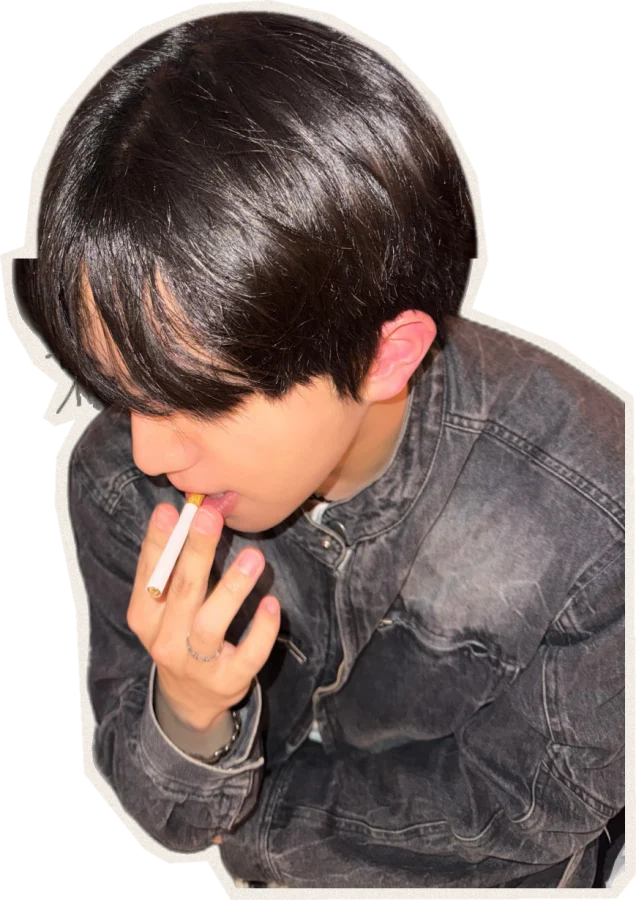
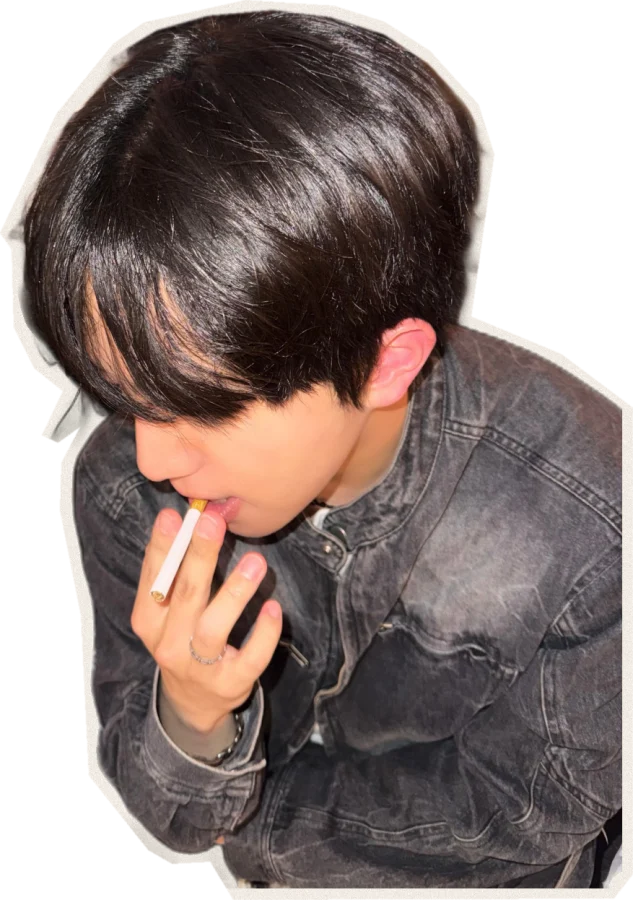
Artists: recut 강태영 following the real hairline
Claude-Session: https://claude.ai/code/session_015zQpSkvZ78uAkqzBCZ1kuX

diff --git a/index.html b/index.html
@@ -14,7 +14,7 @@
 <meta property="og:locale" content="ko_KR">
 <meta property="og:title" content="RAP-IN 26-2 정기공연 SAGGING 2026">
 <meta property="og:description" content="12월 3일(목) 19:00 경희대 국제캠퍼스 학생회관 소극장. 셋리스트는 11/27(금) 22:00 공개">
-<meta property="og:image" content="https://sagging2026.vercel.app/assets/img/og/og-image.jpg?v=11231618">
+<meta property="og:image" content="https://sagging2026.vercel.app/assets/img/og/og-image.jpg?v=11231620">
 <meta property="og:image:width" content="1200">
 <meta property="og:image:height" content="630">
 <meta property="og:image:alt" content="SAGGING 2026, 12.03 목 19:00 학생회관 소극장">
@@ -23,16 +23,16 @@
 <meta name="twitter:card" content="summary_large_image">
 <meta name="twitter:title" content="RAP-IN 26-2 정기공연 SAGGING 2026">
 <meta name="twitter:description" content="12월 3일(목) 19:00 경희대 국제캠퍼스 학생회관 소극장. 셋리스트는 11/27(금) 22:00 공개">
-<meta name="twitter:image" content="https://sagging2026.vercel.app/assets/img/og/og-image.jpg?v=11231618">
+<meta name="twitter:image" content="https://sagging2026.vercel.app/assets/img/og/og-image.jpg?v=11231620">
 
 <link rel="icon" href="assets/img/favicon.svg" type="image/svg+xml">
 <link rel="preload" href="assets/fonts/PretendardVariable.woff2" as="font" type="font/woff2" crossorigin>
 <link rel="preload" href="assets/audio/bgm.mp3" as="audio" type="audio/mpeg">
-<link rel="stylesheet" href="assets/css/base.css?v=11231618">
-<link rel="stylesheet" href="assets/css/layout.css?v=11231618">
-<link rel="stylesheet" href="assets/css/poster.css?v=11231618">
-<link rel="stylesheet" href="assets/css/program.css?v=11231618">
-<link rel="stylesheet" href="assets/css/panels.css?v=11231618">
+<link rel="stylesheet" href="assets/css/base.css?v=11231620">
+<link rel="stylesheet" href="assets/css/layout.css?v=11231620">
+<link rel="stylesheet" href="assets/css/poster.css?v=11231620">
+<link rel="stylesheet" href="assets/css/program.css?v=11231620">
+<link rel="stylesheet" href="assets/css/panels.css?v=11231620">
 <script>document.documentElement.classList.replace("no-js","js");</script>
 </head>
 <body>
@@ -172,6 +172,6 @@
 <!-- GSAP은 외부 CDN 대신 저장소 안에 같이 둬요 (공연장 와이파이가 불안정해도 동작하게) -->
 <script src="assets/vendor/gsap.min.js" defer></script>
 <script src="assets/vendor/ScrollTrigger.min.js" defer></script>
-<script type="module" src="assets/js/main.js?v=11231618"></script>
+<script type="module" src="assets/js/main.js?v=11231620"></script>
 </body>
 </html>

diff --git a/assets/js/main.js b/assets/js/main.js
@@ -1,13 +1,13 @@
 // 진입점: 데이터 불러오기 → 언어 적용 → 순서표 그리기 → 포스터 모션 시작
-import { loadJSON } from "./data.js?v=11231618";
+import { loadJSON } from "./data.js?v=11231620";
 import { initI18n, t, getLang, onLangChange } from "./i18n.js";
-import { renderInfo } from "./sections/info.js?v=11231618";
-import { renderArtists } from "./sections/artists.js?v=11231618";
-import { renderProgram } from "./sections/program.js?v=11231618";
-import { initPoster } from "./motion/poster.js?v=11231618";
-import { initPanels } from "./sections/panels.js?v=11231618";
-import { initBgm } from "./bgm.js?v=11231618";
-import { initBeat } from "./motion/beat.js?v=11231618";
+import { renderInfo } from "./sections/info.js?v=11231620";
+import { renderArtists } from "./sections/artists.js?v=11231620";
+import { renderProgram } from "./sections/program.js?v=11231620";
+import { initPoster } from "./motion/poster.js?v=11231620";
+import { initPanels } from "./sections/panels.js?v=11231620";
+import { initBgm } from "./bgm.js?v=11231620";
+import { initBeat } from "./motion/beat.js?v=11231620";
 
 const reduced = matchMedia("(prefers-reduced-motion: reduce)").matches;
 if (reduced) document.documentElement.classList.add("reduced");
